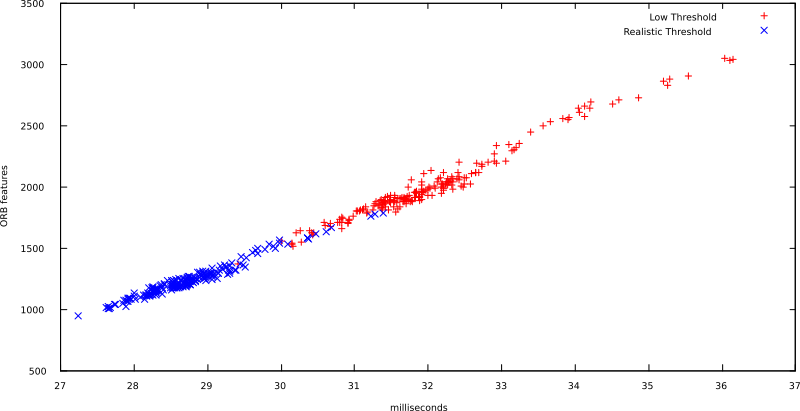
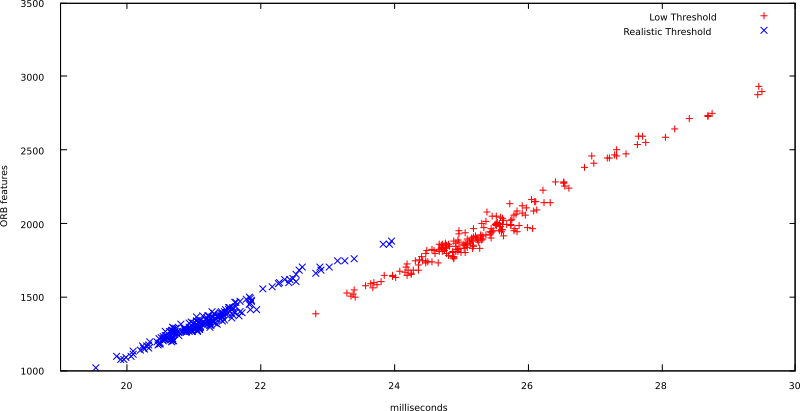
Update performance

diff --git a/README.md b/README.md
@@ -95,7 +95,7 @@ Four separate steps comprise the ORB extraction process.
 
 Unlike other FAST implementations which try to detect non-features and abort quickly,
 PiSlam uses a pure SIMD implementation. Therefore the running time is constant and
-easy to quantify at 16ms on a Raspberry Pi 3, making it the most expensive stage.
+easy to quantify at 8.4ms on a Raspberry Pi 3, making it the most expensive stage.
 
 All other stages are dependent on the number of points detected, but empirical
 results show that the frontend can comfortably handle up to 2000 ORB features
@@ -121,7 +121,7 @@ The ORB descriptor implementation has a large overhead,
 since OpenCV will copy the image and blur it using 7x7 kernel.
 PiSlam skips this step since input images are assumed to be blurred.
 After subtracting the constant overhead, OpenCV requires 10ms to compute the 1000 descriptors.
-Therefore our implementation is 2-3 times faster depending on how one measures.
+Therefore our implementation is 3-4 times faster depending on how one measures.
 
 Further, other tests (not included in this release) have shown that feature matching
 can be achieved in under 20 ms per frame using [flann](https://github.com/mariusmuja/flann).
